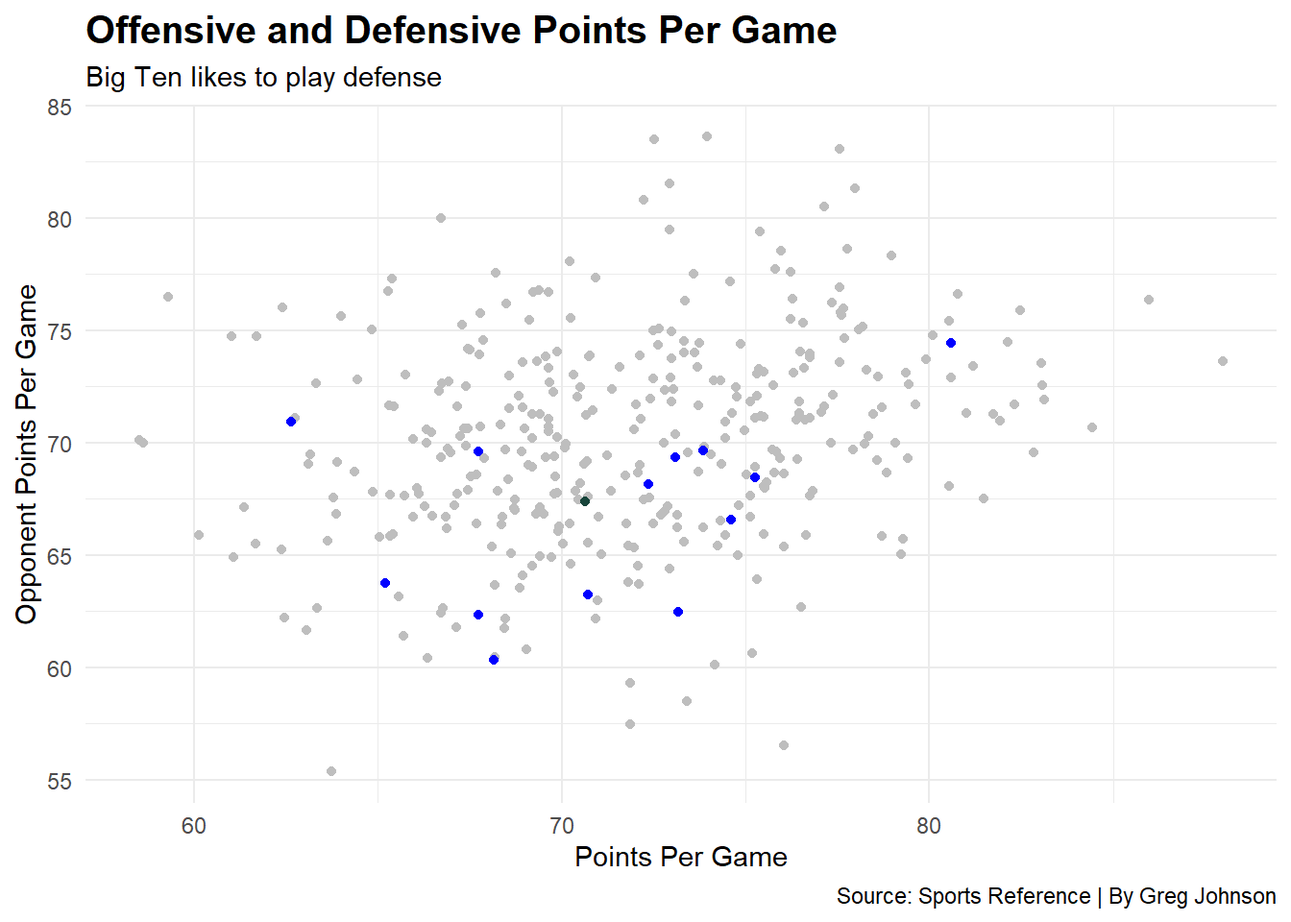
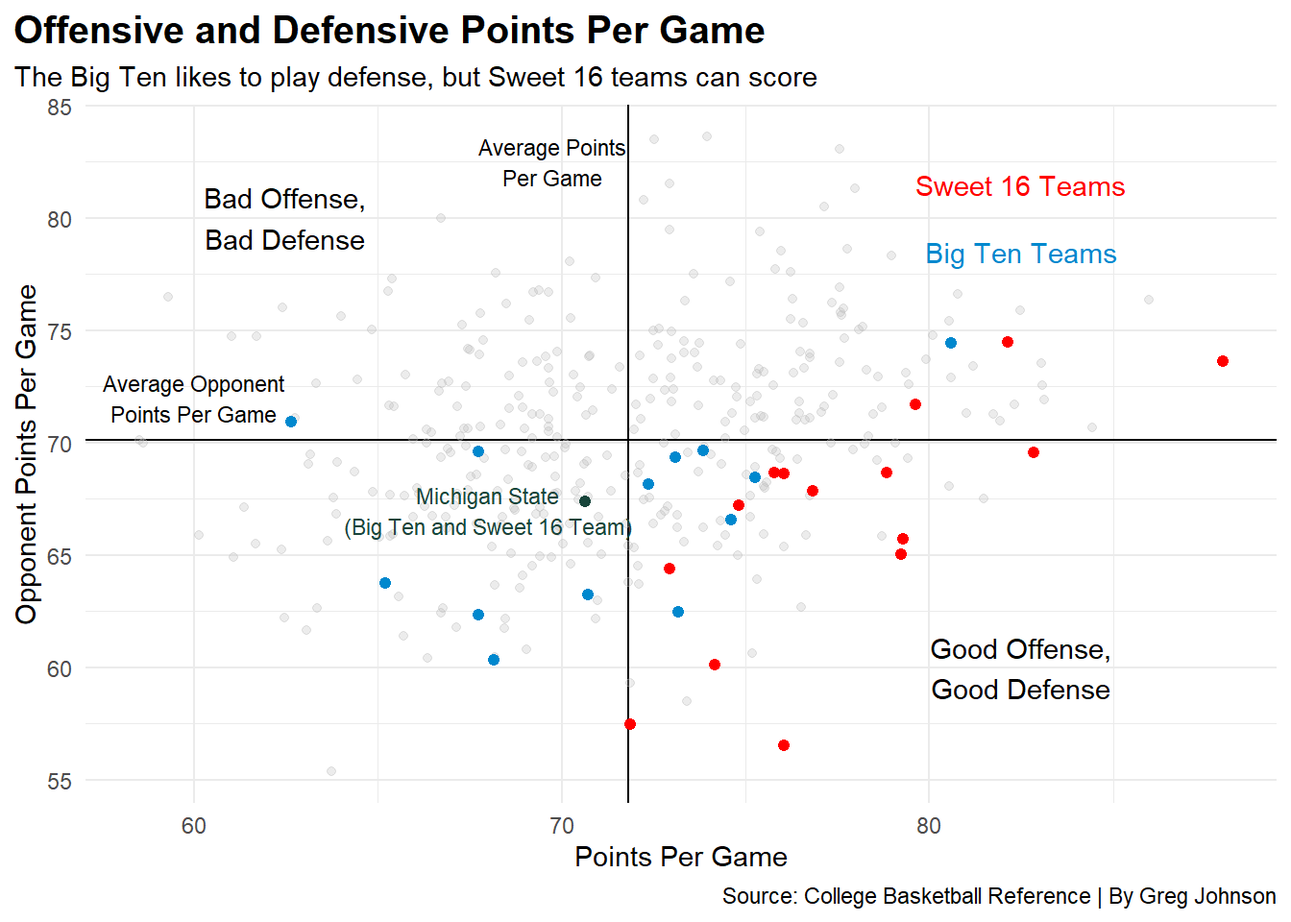
just need text

diff --git a/posts/the-big-ten-sucks-at-march-madness/index.html b/posts/the-big-ten-sucks-at-march-madness/index.html
@@ -6,10 +6,10 @@
 
 <meta name="viewport" content="width=device-width, initial-scale=1.0, user-scalable=yes">
 
-<meta name="author" content="GREG JOHNSON">
+<meta name="author" content="Greg Johnson">
 <meta name="dcterms.date" content="2023-04-16">
 
-<title>Greg Johnson’s Blog - THE BIG TEN SUCKS AT MARCH MADNESS</title>
+<title>Greg Johnson’s Blog - The Big Ten’s Short Lived 2023 March Madness</title>
 <style>
 code{white-space: pre-wrap;}
 span.smallcaps{font-variant: small-caps;}
@@ -173,7 +173,7 @@ code span.wa { color: #60a0b0; font-weight: bold; font-style: italic; } /* Warni
 <header id="title-block-header" class="quarto-title-block default page-columns page-full">
   <div class="quarto-title-banner page-columns page-full">
     <div class="quarto-title column-body">
-      <h1 class="title">THE BIG TEN SUCKS AT MARCH MADNESS</h1>
+      <h1 class="title">The Big Ten’s Short Lived 2023 March Madness</h1>
                                 <div class="quarto-categories">
                 <div class="quarto-category">ppg</div>
                 <div class="quarto-category">sos</div>
@@ -188,7 +188,7 @@ code span.wa { color: #60a0b0; font-weight: bold; font-style: italic; } /* Warni
       <div>
       <div class="quarto-title-meta-heading">Author</div>
       <div class="quarto-title-meta-contents">
-               <p>GREG JOHNSON </p>
+               <p>Greg Johnson </p>
             </div>
     </div>
       
@@ -258,114 +258,109 @@ code span.wa { color: #60a0b0; font-weight: bold; font-style: italic; } /* Warni
 <span id="cb1-39"><a href="#cb1-39" aria-hidden="true" tabindex="-1"></a></span>
 <span id="cb1-40"><a href="#cb1-40" aria-hidden="true" tabindex="-1"></a>sweetdanceresidual <span class="ot">&lt;-</span> residualmodel <span class="sc">%&gt;%</span> <span class="fu">filter</span>(School <span class="sc">%in%</span> sweettournament)</span>
 <span id="cb1-41"><a href="#cb1-41" aria-hidden="true" tabindex="-1"></a></span>
-<span id="cb1-42"><a href="#cb1-42" aria-hidden="true" tabindex="-1"></a>miresidual <span class="ot">&lt;-</span> residualmodel <span class="sc">%&gt;%</span> <span class="fu">filter</span>(School <span class="sc">==</span> <span class="st">"Michigan State"</span>)</span></code><button title="Copy to Clipboard" class="code-copy-button"><i class="bi"></i></button></pre></div>
-</details>
-</div>
-<p>Some intro text</p>
-<div class="cell">
-<details>
-<summary>Code</summary>
-<div class="sourceCode cell-code" id="cb2"><pre class="sourceCode r code-with-copy"><code class="sourceCode r"><span id="cb2-1"><a href="#cb2-1" aria-hidden="true" tabindex="-1"></a><span class="fu">ggplot</span>() <span class="sc">+</span></span>
-<span id="cb2-2"><a href="#cb2-2" aria-hidden="true" tabindex="-1"></a>  <span class="fu">geom_hline</span>(<span class="at">yintercept=</span><span class="fl">70.11547</span>, <span class="at">color=</span><span class="st">"black"</span>) <span class="sc">+</span> </span>
-<span id="cb2-3"><a href="#cb2-3" aria-hidden="true" tabindex="-1"></a>  <span class="fu">geom_vline</span>(<span class="at">xintercept=</span><span class="fl">71.81432</span>, <span class="at">color=</span><span class="st">"black"</span>) <span class="sc">+</span>   </span>
-<span id="cb2-4"><a href="#cb2-4" aria-hidden="true" tabindex="-1"></a>  <span class="fu">geom_point</span>(<span class="at">data=</span>stats, <span class="fu">aes</span>(<span class="at">x=</span>ForPoints<span class="sc">/</span>Games, <span class="at">y=</span>OppPoints<span class="sc">/</span>Games), <span class="at">size=</span><span class="fl">1.5</span>, <span class="at">color=</span><span class="st">"grey"</span>, <span class="at">alpha=</span>.<span class="dv">3</span>) <span class="sc">+</span></span>
-<span id="cb2-5"><a href="#cb2-5" aria-hidden="true" tabindex="-1"></a>  <span class="fu">geom_point</span>(<span class="at">data=</span>big, <span class="fu">aes</span>(<span class="at">x=</span>ForPoints<span class="sc">/</span>Games, <span class="at">y=</span>OppPoints<span class="sc">/</span>Games), <span class="at">size=</span><span class="fl">1.75</span>, <span class="at">color=</span><span class="st">"#0088ce"</span>) <span class="sc">+</span></span>
-<span id="cb2-6"><a href="#cb2-6" aria-hidden="true" tabindex="-1"></a>  <span class="fu">geom_point</span>(<span class="at">data=</span>sweetdance, <span class="fu">aes</span>(<span class="at">x=</span>ForPoints<span class="sc">/</span>Games, <span class="at">y=</span>OppPoints<span class="sc">/</span>Games), <span class="at">size=</span><span class="fl">1.75</span>, <span class="at">color=</span><span class="st">"red"</span>) <span class="sc">+</span></span>
-<span id="cb2-7"><a href="#cb2-7" aria-hidden="true" tabindex="-1"></a>  <span class="fu">geom_point</span>(<span class="at">data=</span>mi, <span class="fu">aes</span>(<span class="at">x=</span>ForPoints<span class="sc">/</span>Games, <span class="at">y=</span>OppPoints<span class="sc">/</span>Games), <span class="at">size=</span><span class="fl">1.75</span>, <span class="at">color=</span><span class="st">"#18453B"</span>) <span class="sc">+</span> </span>
-<span id="cb2-8"><a href="#cb2-8" aria-hidden="true" tabindex="-1"></a></span>
-<span id="cb2-9"><a href="#cb2-9" aria-hidden="true" tabindex="-1"></a>  <span class="fu">labs</span>(</span>
-<span id="cb2-10"><a href="#cb2-10" aria-hidden="true" tabindex="-1"></a>    <span class="at">title=</span><span class="st">"Offensive and Defensive Points Per Game"</span>,</span>
-<span id="cb2-11"><a href="#cb2-11" aria-hidden="true" tabindex="-1"></a>    <span class="at">subtitle=</span><span class="st">"The Big Ten likes to play defense, but Sweet 16 teams can score"</span>,</span>
-<span id="cb2-12"><a href="#cb2-12" aria-hidden="true" tabindex="-1"></a>    <span class="at">x=</span><span class="st">"Points Per Game"</span>, </span>
-<span id="cb2-13"><a href="#cb2-13" aria-hidden="true" tabindex="-1"></a>    <span class="at">y=</span><span class="st">"Opponent Points Per Game"</span>,</span>
-<span id="cb2-14"><a href="#cb2-14" aria-hidden="true" tabindex="-1"></a>    <span class="at">caption=</span><span class="st">"Source: College Basketball Reference | By Greg Johnson"</span>)<span class="sc">+</span></span>
-<span id="cb2-15"><a href="#cb2-15" aria-hidden="true" tabindex="-1"></a>   <span class="fu">geom_text</span>(<span class="fu">aes</span>(<span class="at">x=</span><span class="fl">82.5</span>, <span class="at">y=</span><span class="fl">81.5</span>, <span class="at">label=</span><span class="st">"Sweet 16 Teams"</span>), <span class="at">color=</span><span class="st">"red"</span>) <span class="sc">+</span></span>
-<span id="cb2-16"><a href="#cb2-16" aria-hidden="true" tabindex="-1"></a>  <span class="fu">geom_text</span>(<span class="fu">aes</span>(<span class="at">x=</span><span class="fl">82.5</span>, <span class="at">y=</span><span class="fl">78.5</span>, <span class="at">label=</span><span class="st">"Big Ten Teams"</span>), <span class="at">color=</span><span class="st">"#0088ce"</span>) <span class="sc">+</span></span>
-<span id="cb2-17"><a href="#cb2-17" aria-hidden="true" tabindex="-1"></a>  <span class="fu">geom_text</span>(<span class="fu">aes</span>(<span class="at">x=</span><span class="dv">68</span>, <span class="at">y=</span><span class="dv">67</span>, <span class="at">label=</span><span class="st">"Michigan State</span><span class="sc">\n</span><span class="st">(Big Ten and Sweet 16 Team)"</span>), <span class="at">size=</span><span class="dv">3</span>, <span class="at">color=</span><span class="st">"#18453B"</span>) <span class="sc">+</span></span>
-<span id="cb2-18"><a href="#cb2-18" aria-hidden="true" tabindex="-1"></a>  <span class="fu">geom_text</span>(<span class="fu">aes</span>(<span class="at">x=</span><span class="fl">82.5</span>, <span class="at">y=</span><span class="dv">60</span>, <span class="at">label=</span><span class="st">"Good Offense,</span><span class="sc">\n</span><span class="st">Good Defense"</span>), <span class="at">color=</span><span class="st">"black"</span>) <span class="sc">+</span></span>
-<span id="cb2-19"><a href="#cb2-19" aria-hidden="true" tabindex="-1"></a>  <span class="fu">geom_text</span>(<span class="fu">aes</span>(<span class="at">x=</span><span class="fl">62.5</span>, <span class="at">y=</span><span class="dv">80</span>, <span class="at">label=</span><span class="st">"Bad Offense,</span><span class="sc">\n</span><span class="st">Bad Defense"</span>), <span class="at">color=</span><span class="st">"black"</span>) <span class="sc">+</span></span>
-<span id="cb2-20"><a href="#cb2-20" aria-hidden="true" tabindex="-1"></a>  <span class="fu">geom_text</span>(<span class="fu">aes</span>(<span class="at">x=</span><span class="fl">69.75</span>, <span class="at">y=</span><span class="fl">82.5</span>, <span class="at">label=</span><span class="st">"Average Points</span><span class="sc">\n</span><span class="st">Per Game"</span>), <span class="at">size=</span><span class="dv">3</span>, <span class="at">color=</span><span class="st">"black"</span>) <span class="sc">+</span></span>
-<span id="cb2-21"><a href="#cb2-21" aria-hidden="true" tabindex="-1"></a>  <span class="fu">geom_text</span>(<span class="fu">aes</span>(<span class="at">x=</span><span class="dv">60</span>, <span class="at">y=</span><span class="dv">72</span>, <span class="at">label=</span><span class="st">"Average Opponent</span><span class="sc">\n</span><span class="st">Points Per Game"</span>), <span class="at">size=</span><span class="dv">3</span>, <span class="at">color=</span><span class="st">"black"</span>) <span class="sc">+</span></span>
-<span id="cb2-22"><a href="#cb2-22" aria-hidden="true" tabindex="-1"></a>  </span>
-<span id="cb2-23"><a href="#cb2-23" aria-hidden="true" tabindex="-1"></a>  <span class="fu">theme_minimal</span>() <span class="sc">+</span></span>
-<span id="cb2-24"><a href="#cb2-24" aria-hidden="true" tabindex="-1"></a>  <span class="fu">theme</span>(</span>
-<span id="cb2-25"><a href="#cb2-25" aria-hidden="true" tabindex="-1"></a>    <span class="at">plot.title =</span> <span class="fu">element_text</span>(<span class="at">size =</span> <span class="dv">15</span>, <span class="at">face =</span> <span class="st">"bold"</span>),</span>
-<span id="cb2-26"><a href="#cb2-26" aria-hidden="true" tabindex="-1"></a>    <span class="at">plot.title.position=</span><span class="st">"plot"</span></span>
-<span id="cb2-27"><a href="#cb2-27" aria-hidden="true" tabindex="-1"></a>    )</span></code><button title="Copy to Clipboard" class="code-copy-button"><i class="bi"></i></button></pre></div>
+<span id="cb1-42"><a href="#cb1-42" aria-hidden="true" tabindex="-1"></a>miresidual <span class="ot">&lt;-</span> residualmodel <span class="sc">%&gt;%</span> <span class="fu">filter</span>(School <span class="sc">==</span> <span class="st">"Michigan State"</span>)</span>
+<span id="cb1-43"><a href="#cb1-43" aria-hidden="true" tabindex="-1"></a></span>
+<span id="cb1-44"><a href="#cb1-44" aria-hidden="true" tabindex="-1"></a><span class="fu">ggplot</span>() <span class="sc">+</span></span>
+<span id="cb1-45"><a href="#cb1-45" aria-hidden="true" tabindex="-1"></a>  <span class="fu">geom_hline</span>(<span class="at">yintercept=</span><span class="fl">70.11547</span>, <span class="at">color=</span><span class="st">"black"</span>) <span class="sc">+</span> </span>
+<span id="cb1-46"><a href="#cb1-46" aria-hidden="true" tabindex="-1"></a>  <span class="fu">geom_vline</span>(<span class="at">xintercept=</span><span class="fl">71.81432</span>, <span class="at">color=</span><span class="st">"black"</span>) <span class="sc">+</span>   </span>
+<span id="cb1-47"><a href="#cb1-47" aria-hidden="true" tabindex="-1"></a>  <span class="fu">geom_point</span>(<span class="at">data=</span>stats, <span class="fu">aes</span>(<span class="at">x=</span>ForPoints<span class="sc">/</span>Games, <span class="at">y=</span>OppPoints<span class="sc">/</span>Games), <span class="at">size=</span><span class="fl">1.5</span>, <span class="at">color=</span><span class="st">"grey"</span>, <span class="at">alpha=</span>.<span class="dv">3</span>) <span class="sc">+</span></span>
+<span id="cb1-48"><a href="#cb1-48" aria-hidden="true" tabindex="-1"></a>  <span class="fu">geom_point</span>(<span class="at">data=</span>big, <span class="fu">aes</span>(<span class="at">x=</span>ForPoints<span class="sc">/</span>Games, <span class="at">y=</span>OppPoints<span class="sc">/</span>Games), <span class="at">size=</span><span class="fl">1.75</span>, <span class="at">color=</span><span class="st">"#0088ce"</span>) <span class="sc">+</span></span>
+<span id="cb1-49"><a href="#cb1-49" aria-hidden="true" tabindex="-1"></a>  <span class="fu">geom_point</span>(<span class="at">data=</span>sweetdance, <span class="fu">aes</span>(<span class="at">x=</span>ForPoints<span class="sc">/</span>Games, <span class="at">y=</span>OppPoints<span class="sc">/</span>Games), <span class="at">size=</span><span class="fl">1.75</span>, <span class="at">color=</span><span class="st">"red"</span>) <span class="sc">+</span></span>
+<span id="cb1-50"><a href="#cb1-50" aria-hidden="true" tabindex="-1"></a>  <span class="fu">geom_point</span>(<span class="at">data=</span>mi, <span class="fu">aes</span>(<span class="at">x=</span>ForPoints<span class="sc">/</span>Games, <span class="at">y=</span>OppPoints<span class="sc">/</span>Games), <span class="at">size=</span><span class="fl">1.75</span>, <span class="at">color=</span><span class="st">"#18453B"</span>) <span class="sc">+</span> </span>
+<span id="cb1-51"><a href="#cb1-51" aria-hidden="true" tabindex="-1"></a></span>
+<span id="cb1-52"><a href="#cb1-52" aria-hidden="true" tabindex="-1"></a>  <span class="fu">labs</span>(</span>
+<span id="cb1-53"><a href="#cb1-53" aria-hidden="true" tabindex="-1"></a>    <span class="at">title=</span><span class="st">"Offensive and Defensive Points Per Game"</span>,</span>
+<span id="cb1-54"><a href="#cb1-54" aria-hidden="true" tabindex="-1"></a>    <span class="at">subtitle=</span><span class="st">"The Big Ten likes to play defense, but Sweet 16 teams can score"</span>,</span>
+<span id="cb1-55"><a href="#cb1-55" aria-hidden="true" tabindex="-1"></a>    <span class="at">x=</span><span class="st">"Points Per Game"</span>, </span>
+<span id="cb1-56"><a href="#cb1-56" aria-hidden="true" tabindex="-1"></a>    <span class="at">y=</span><span class="st">"Opponent Points Per Game"</span>,</span>
+<span id="cb1-57"><a href="#cb1-57" aria-hidden="true" tabindex="-1"></a>    <span class="at">caption=</span><span class="st">"Source: College Basketball Reference | By Greg Johnson"</span>)<span class="sc">+</span></span>
+<span id="cb1-58"><a href="#cb1-58" aria-hidden="true" tabindex="-1"></a>   <span class="fu">geom_text</span>(<span class="fu">aes</span>(<span class="at">x=</span><span class="fl">82.5</span>, <span class="at">y=</span><span class="fl">81.5</span>, <span class="at">label=</span><span class="st">"Sweet 16 Teams"</span>), <span class="at">color=</span><span class="st">"red"</span>) <span class="sc">+</span></span>
+<span id="cb1-59"><a href="#cb1-59" aria-hidden="true" tabindex="-1"></a>  <span class="fu">geom_text</span>(<span class="fu">aes</span>(<span class="at">x=</span><span class="fl">82.5</span>, <span class="at">y=</span><span class="fl">78.5</span>, <span class="at">label=</span><span class="st">"Big Ten Teams"</span>), <span class="at">color=</span><span class="st">"#0088ce"</span>) <span class="sc">+</span></span>
+<span id="cb1-60"><a href="#cb1-60" aria-hidden="true" tabindex="-1"></a>  <span class="fu">geom_text</span>(<span class="fu">aes</span>(<span class="at">x=</span><span class="dv">68</span>, <span class="at">y=</span><span class="dv">67</span>, <span class="at">label=</span><span class="st">"Michigan State</span><span class="sc">\n</span><span class="st">(Big Ten and Sweet 16 Team)"</span>), <span class="at">size=</span><span class="dv">3</span>, <span class="at">color=</span><span class="st">"#18453B"</span>) <span class="sc">+</span></span>
+<span id="cb1-61"><a href="#cb1-61" aria-hidden="true" tabindex="-1"></a>  <span class="fu">geom_text</span>(<span class="fu">aes</span>(<span class="at">x=</span><span class="fl">82.5</span>, <span class="at">y=</span><span class="dv">60</span>, <span class="at">label=</span><span class="st">"Good Offense,</span><span class="sc">\n</span><span class="st">Good Defense"</span>), <span class="at">color=</span><span class="st">"black"</span>) <span class="sc">+</span></span>
+<span id="cb1-62"><a href="#cb1-62" aria-hidden="true" tabindex="-1"></a>  <span class="fu">geom_text</span>(<span class="fu">aes</span>(<span class="at">x=</span><span class="fl">62.5</span>, <span class="at">y=</span><span class="dv">80</span>, <span class="at">label=</span><span class="st">"Bad Offense,</span><span class="sc">\n</span><span class="st">Bad Defense"</span>), <span class="at">color=</span><span class="st">"black"</span>) <span class="sc">+</span></span>
+<span id="cb1-63"><a href="#cb1-63" aria-hidden="true" tabindex="-1"></a>  <span class="fu">geom_text</span>(<span class="fu">aes</span>(<span class="at">x=</span><span class="fl">69.75</span>, <span class="at">y=</span><span class="fl">82.5</span>, <span class="at">label=</span><span class="st">"Average Points</span><span class="sc">\n</span><span class="st">Per Game"</span>), <span class="at">size=</span><span class="dv">3</span>, <span class="at">color=</span><span class="st">"black"</span>) <span class="sc">+</span></span>
+<span id="cb1-64"><a href="#cb1-64" aria-hidden="true" tabindex="-1"></a>  <span class="fu">geom_text</span>(<span class="fu">aes</span>(<span class="at">x=</span><span class="dv">60</span>, <span class="at">y=</span><span class="dv">72</span>, <span class="at">label=</span><span class="st">"Average Opponent</span><span class="sc">\n</span><span class="st">Points Per Game"</span>), <span class="at">size=</span><span class="dv">3</span>, <span class="at">color=</span><span class="st">"black"</span>) <span class="sc">+</span></span>
+<span id="cb1-65"><a href="#cb1-65" aria-hidden="true" tabindex="-1"></a>  </span>
+<span id="cb1-66"><a href="#cb1-66" aria-hidden="true" tabindex="-1"></a>  <span class="fu">theme_minimal</span>() <span class="sc">+</span></span>
+<span id="cb1-67"><a href="#cb1-67" aria-hidden="true" tabindex="-1"></a>  <span class="fu">theme</span>(</span>
+<span id="cb1-68"><a href="#cb1-68" aria-hidden="true" tabindex="-1"></a>    <span class="at">plot.title =</span> <span class="fu">element_text</span>(<span class="at">size =</span> <span class="dv">15</span>, <span class="at">face =</span> <span class="st">"bold"</span>),</span>
+<span id="cb1-69"><a href="#cb1-69" aria-hidden="true" tabindex="-1"></a>    <span class="at">plot.title.position=</span><span class="st">"plot"</span></span>
+<span id="cb1-70"><a href="#cb1-70" aria-hidden="true" tabindex="-1"></a>    )</span></code><button title="Copy to Clipboard" class="code-copy-button"><i class="bi"></i></button></pre></div>
 </details>
 <div class="cell-output-display">
-<p><img src="index_files/figure-html/unnamed-chunk-2-1.png" class="img-fluid" width="672"></p>
+<p><img src="index_files/figure-html/unnamed-chunk-1-1.png" class="img-fluid" width="672"></p>
 </div>
 </div>
 <p>That was chart 1, here is chart 2</p>
 <div class="cell">
 <details>
 <summary>Code</summary>
-<div class="sourceCode cell-code" id="cb3"><pre class="sourceCode r code-with-copy"><code class="sourceCode r"><span id="cb3-1"><a href="#cb3-1" aria-hidden="true" tabindex="-1"></a><span class="fu">ggplot</span>() <span class="sc">+</span> </span>
-<span id="cb3-2"><a href="#cb3-2" aria-hidden="true" tabindex="-1"></a>  <span class="fu">geom_bar</span>(</span>
-<span id="cb3-3"><a href="#cb3-3" aria-hidden="true" tabindex="-1"></a>    <span class="at">data=</span>big, </span>
-<span id="cb3-4"><a href="#cb3-4" aria-hidden="true" tabindex="-1"></a>    <span class="fu">aes</span>(</span>
-<span id="cb3-5"><a href="#cb3-5" aria-hidden="true" tabindex="-1"></a>      <span class="at">x=</span><span class="fu">reorder</span>(School, OverallSOS), </span>
-<span id="cb3-6"><a href="#cb3-6" aria-hidden="true" tabindex="-1"></a>      <span class="at">weight=</span>OverallSOS), </span>
-<span id="cb3-7"><a href="#cb3-7" aria-hidden="true" tabindex="-1"></a>      <span class="at">fill=</span><span class="st">"grey"</span></span>
-<span id="cb3-8"><a href="#cb3-8" aria-hidden="true" tabindex="-1"></a>    ) <span class="sc">+</span> </span>
-<span id="cb3-9"><a href="#cb3-9" aria-hidden="true" tabindex="-1"></a>  <span class="fu">geom_bar</span>(</span>
-<span id="cb3-10"><a href="#cb3-10" aria-hidden="true" tabindex="-1"></a>    <span class="at">data=</span>bigdance, </span>
-<span id="cb3-11"><a href="#cb3-11" aria-hidden="true" tabindex="-1"></a>    <span class="fu">aes</span>(</span>
-<span id="cb3-12"><a href="#cb3-12" aria-hidden="true" tabindex="-1"></a>      <span class="at">x=</span><span class="fu">reorder</span>(School, OverallSOS), </span>
-<span id="cb3-13"><a href="#cb3-13" aria-hidden="true" tabindex="-1"></a>      <span class="at">weight=</span>OverallSOS), <span class="at">fill=</span><span class="st">"#0088ce"</span></span>
-<span id="cb3-14"><a href="#cb3-14" aria-hidden="true" tabindex="-1"></a>      </span>
-<span id="cb3-15"><a href="#cb3-15" aria-hidden="true" tabindex="-1"></a>    ) <span class="sc">+</span></span>
-<span id="cb3-16"><a href="#cb3-16" aria-hidden="true" tabindex="-1"></a>  <span class="fu">coord_flip</span>() <span class="sc">+</span></span>
-<span id="cb3-17"><a href="#cb3-17" aria-hidden="true" tabindex="-1"></a> <span class="fu">labs</span>(</span>
-<span id="cb3-18"><a href="#cb3-18" aria-hidden="true" tabindex="-1"></a>    <span class="at">title=</span><span class="st">"Big Ten Strength of Schedule"</span>,</span>
-<span id="cb3-19"><a href="#cb3-19" aria-hidden="true" tabindex="-1"></a>    <span class="at">subtitle=</span><span class="st">"Sparty is not afraid of a fight"</span>,</span>
-<span id="cb3-20"><a href="#cb3-20" aria-hidden="true" tabindex="-1"></a>    <span class="at">x=</span><span class="st">""</span>, </span>
-<span id="cb3-21"><a href="#cb3-21" aria-hidden="true" tabindex="-1"></a>    <span class="at">y=</span><span class="st">"Strength of Schedule"</span>,</span>
-<span id="cb3-22"><a href="#cb3-22" aria-hidden="true" tabindex="-1"></a>    <span class="at">caption=</span><span class="st">"Source: College Basketball Reference | By Greg Johnson"</span>)<span class="sc">+</span></span>
-<span id="cb3-23"><a href="#cb3-23" aria-hidden="true" tabindex="-1"></a>  <span class="fu">geom_text</span>(<span class="fu">aes</span>(<span class="at">x=</span><span class="st">"Purdue"</span>, <span class="at">y=</span><span class="fl">9.75</span>, <span class="at">label=</span><span class="st">"Tournament</span><span class="sc">\n</span><span class="st">Teams"</span>), <span class="at">size=</span><span class="fl">3.6</span>, <span class="at">color=</span><span class="st">"#0088ce"</span>) <span class="sc">+</span></span>
-<span id="cb3-24"><a href="#cb3-24" aria-hidden="true" tabindex="-1"></a>  <span class="fu">theme_minimal</span>() <span class="sc">+</span></span>
-<span id="cb3-25"><a href="#cb3-25" aria-hidden="true" tabindex="-1"></a>  <span class="fu">theme</span>(</span>
-<span id="cb3-26"><a href="#cb3-26" aria-hidden="true" tabindex="-1"></a>    <span class="at">plot.title =</span> <span class="fu">element_text</span>(<span class="at">size =</span> <span class="dv">15</span>, <span class="at">face =</span> <span class="st">"bold"</span>),</span>
-<span id="cb3-27"><a href="#cb3-27" aria-hidden="true" tabindex="-1"></a>    <span class="at">plot.title.position=</span><span class="st">"plot"</span></span>
-<span id="cb3-28"><a href="#cb3-28" aria-hidden="true" tabindex="-1"></a>    )</span></code><button title="Copy to Clipboard" class="code-copy-button"><i class="bi"></i></button></pre></div>
+<div class="sourceCode cell-code" id="cb2"><pre class="sourceCode r code-with-copy"><code class="sourceCode r"><span id="cb2-1"><a href="#cb2-1" aria-hidden="true" tabindex="-1"></a><span class="fu">ggplot</span>() <span class="sc">+</span> </span>
+<span id="cb2-2"><a href="#cb2-2" aria-hidden="true" tabindex="-1"></a>  <span class="fu">geom_bar</span>(</span>
+<span id="cb2-3"><a href="#cb2-3" aria-hidden="true" tabindex="-1"></a>    <span class="at">data=</span>big, </span>
+<span id="cb2-4"><a href="#cb2-4" aria-hidden="true" tabindex="-1"></a>    <span class="fu">aes</span>(</span>
+<span id="cb2-5"><a href="#cb2-5" aria-hidden="true" tabindex="-1"></a>      <span class="at">x=</span><span class="fu">reorder</span>(School, OverallSOS), </span>
+<span id="cb2-6"><a href="#cb2-6" aria-hidden="true" tabindex="-1"></a>      <span class="at">weight=</span>OverallSOS), </span>
+<span id="cb2-7"><a href="#cb2-7" aria-hidden="true" tabindex="-1"></a>      <span class="at">fill=</span><span class="st">"grey"</span></span>
+<span id="cb2-8"><a href="#cb2-8" aria-hidden="true" tabindex="-1"></a>    ) <span class="sc">+</span> </span>
+<span id="cb2-9"><a href="#cb2-9" aria-hidden="true" tabindex="-1"></a>  <span class="fu">geom_bar</span>(</span>
+<span id="cb2-10"><a href="#cb2-10" aria-hidden="true" tabindex="-1"></a>    <span class="at">data=</span>bigdance, </span>
+<span id="cb2-11"><a href="#cb2-11" aria-hidden="true" tabindex="-1"></a>    <span class="fu">aes</span>(</span>
+<span id="cb2-12"><a href="#cb2-12" aria-hidden="true" tabindex="-1"></a>      <span class="at">x=</span><span class="fu">reorder</span>(School, OverallSOS), </span>
+<span id="cb2-13"><a href="#cb2-13" aria-hidden="true" tabindex="-1"></a>      <span class="at">weight=</span>OverallSOS), <span class="at">fill=</span><span class="st">"#0088ce"</span></span>
+<span id="cb2-14"><a href="#cb2-14" aria-hidden="true" tabindex="-1"></a>      </span>
+<span id="cb2-15"><a href="#cb2-15" aria-hidden="true" tabindex="-1"></a>    ) <span class="sc">+</span></span>
+<span id="cb2-16"><a href="#cb2-16" aria-hidden="true" tabindex="-1"></a>  <span class="fu">coord_flip</span>() <span class="sc">+</span></span>
+<span id="cb2-17"><a href="#cb2-17" aria-hidden="true" tabindex="-1"></a> <span class="fu">labs</span>(</span>
+<span id="cb2-18"><a href="#cb2-18" aria-hidden="true" tabindex="-1"></a>    <span class="at">title=</span><span class="st">"Big Ten Strength of Schedule"</span>,</span>
+<span id="cb2-19"><a href="#cb2-19" aria-hidden="true" tabindex="-1"></a>    <span class="at">subtitle=</span><span class="st">"Sparty is not afraid of a fight"</span>,</span>
+<span id="cb2-20"><a href="#cb2-20" aria-hidden="true" tabindex="-1"></a>    <span class="at">x=</span><span class="st">""</span>, </span>
+<span id="cb2-21"><a href="#cb2-21" aria-hidden="true" tabindex="-1"></a>    <span class="at">y=</span><span class="st">"Strength of Schedule"</span>,</span>
+<span id="cb2-22"><a href="#cb2-22" aria-hidden="true" tabindex="-1"></a>    <span class="at">caption=</span><span class="st">"Source: College Basketball Reference | By Greg Johnson"</span>)<span class="sc">+</span></span>
+<span id="cb2-23"><a href="#cb2-23" aria-hidden="true" tabindex="-1"></a>  <span class="fu">geom_text</span>(<span class="fu">aes</span>(<span class="at">x=</span><span class="st">"Purdue"</span>, <span class="at">y=</span><span class="fl">9.75</span>, <span class="at">label=</span><span class="st">"Tournament</span><span class="sc">\n</span><span class="st">Teams"</span>), <span class="at">size=</span><span class="fl">3.6</span>, <span class="at">color=</span><span class="st">"#0088ce"</span>) <span class="sc">+</span></span>
+<span id="cb2-24"><a href="#cb2-24" aria-hidden="true" tabindex="-1"></a>  <span class="fu">theme_minimal</span>() <span class="sc">+</span></span>
+<span id="cb2-25"><a href="#cb2-25" aria-hidden="true" tabindex="-1"></a>  <span class="fu">theme</span>(</span>
+<span id="cb2-26"><a href="#cb2-26" aria-hidden="true" tabindex="-1"></a>    <span class="at">plot.title =</span> <span class="fu">element_text</span>(<span class="at">size =</span> <span class="dv">15</span>, <span class="at">face =</span> <span class="st">"bold"</span>),</span>
+<span id="cb2-27"><a href="#cb2-27" aria-hidden="true" tabindex="-1"></a>    <span class="at">plot.title.position=</span><span class="st">"plot"</span></span>
+<span id="cb2-28"><a href="#cb2-28" aria-hidden="true" tabindex="-1"></a>    )</span></code><button title="Copy to Clipboard" class="code-copy-button"><i class="bi"></i></button></pre></div>
 </details>
 <div class="cell-output-display">
-<p><img src="index_files/figure-html/unnamed-chunk-3-1.png" class="img-fluid" width="672"></p>
+<p><img src="index_files/figure-html/unnamed-chunk-2-1.png" class="img-fluid" width="672"></p>
 </div>
 </div>
 <p>Another Chart coming up</p>
 <div class="cell">
 <details>
 <summary>Code</summary>
-<div class="sourceCode cell-code" id="cb4"><pre class="sourceCode r code-with-copy"><code class="sourceCode r"><span id="cb4-1"><a href="#cb4-1" aria-hidden="true" tabindex="-1"></a><span class="fu">ggplot</span>() <span class="sc">+</span> </span>
-<span id="cb4-2"><a href="#cb4-2" aria-hidden="true" tabindex="-1"></a>  <span class="fu">geom_point</span>(<span class="at">data=</span>residualmodel, <span class="fu">aes</span>(<span class="at">x=</span>averagedifferential, <span class="at">y=</span>WinPct)) <span class="sc">+</span></span>
-<span id="cb4-3"><a href="#cb4-3" aria-hidden="true" tabindex="-1"></a>  <span class="fu">geom_smooth</span>(<span class="at">data=</span>residualmodel, <span class="fu">aes</span>(<span class="at">x=</span>averagedifferential, <span class="at">y=</span>WinPct), <span class="at">method=</span><span class="st">"lm"</span>) <span class="sc">+</span></span>
-<span id="cb4-4"><a href="#cb4-4" aria-hidden="true" tabindex="-1"></a>  <span class="fu">geom_point</span>(<span class="at">data=</span>danceresidual, <span class="fu">aes</span>(<span class="at">x=</span>averagedifferential, <span class="at">y=</span>WinPct), <span class="at">color=</span><span class="st">"grey"</span>) <span class="sc">+</span></span>
-<span id="cb4-5"><a href="#cb4-5" aria-hidden="true" tabindex="-1"></a>  <span class="fu">geom_point</span>(<span class="at">data=</span>bigdanceresidual, <span class="fu">aes</span>(<span class="at">x=</span>averagedifferential, <span class="at">y=</span>WinPct), <span class="at">color=</span><span class="st">"#0088ce"</span>) <span class="sc">+</span></span>
-<span id="cb4-6"><a href="#cb4-6" aria-hidden="true" tabindex="-1"></a>  <span class="fu">geom_point</span>(<span class="at">data=</span>sweetdanceresidual, <span class="fu">aes</span>(<span class="at">x=</span>averagedifferential, <span class="at">y=</span>WinPct), <span class="at">color=</span><span class="st">"red"</span>) <span class="sc">+</span></span>
-<span id="cb4-7"><a href="#cb4-7" aria-hidden="true" tabindex="-1"></a>  <span class="fu">geom_point</span>(<span class="at">data=</span>miresidual, <span class="fu">aes</span>(<span class="at">x=</span>averagedifferential, <span class="at">y=</span>WinPct), <span class="at">color=</span><span class="st">"#18453B"</span>) <span class="sc">+</span></span>
-<span id="cb4-8"><a href="#cb4-8" aria-hidden="true" tabindex="-1"></a>  </span>
-<span id="cb4-9"><a href="#cb4-9" aria-hidden="true" tabindex="-1"></a>  <span class="fu">labs</span>(</span>
-<span id="cb4-10"><a href="#cb4-10" aria-hidden="true" tabindex="-1"></a>    <span class="at">title=</span><span class="st">"Point Differential and Win Percentage of Tournament Teams"</span>,</span>
-<span id="cb4-11"><a href="#cb4-11" aria-hidden="true" tabindex="-1"></a>    <span class="at">subtitle=</span><span class="st">"Big Ten teams like to keep it close, but Sweet 16 teams can run away with the game"</span>,</span>
-<span id="cb4-12"><a href="#cb4-12" aria-hidden="true" tabindex="-1"></a>    <span class="at">x=</span><span class="st">"Average Point Differential"</span>, </span>
-<span id="cb4-13"><a href="#cb4-13" aria-hidden="true" tabindex="-1"></a>    <span class="at">y=</span><span class="st">"Win Percentage"</span>,</span>
-<span id="cb4-14"><a href="#cb4-14" aria-hidden="true" tabindex="-1"></a>    <span class="at">caption=</span><span class="st">"Source: College Basketball Reference | By Greg Johnson"</span>) <span class="sc">+</span></span>
-<span id="cb4-15"><a href="#cb4-15" aria-hidden="true" tabindex="-1"></a>  <span class="fu">geom_text</span>(<span class="fu">aes</span>(<span class="at">x=</span><span class="dv">5</span>, <span class="at">y=</span>.<span class="dv">925</span>, <span class="at">label=</span><span class="st">"Sweet 16 Teams"</span>), <span class="at">color=</span><span class="st">"red"</span>) <span class="sc">+</span></span>
-<span id="cb4-16"><a href="#cb4-16" aria-hidden="true" tabindex="-1"></a>  <span class="fu">geom_text</span>(<span class="fu">aes</span>(<span class="at">x=</span><span class="dv">5</span>, <span class="at">y=</span>.<span class="dv">875</span>, <span class="at">label=</span><span class="st">"Big Ten Teams"</span>), <span class="at">color=</span><span class="st">"#0088ce"</span>) <span class="sc">+</span></span>
-<span id="cb4-17"><a href="#cb4-17" aria-hidden="true" tabindex="-1"></a>  <span class="fu">geom_text</span>(<span class="fu">aes</span>(<span class="at">x=</span><span class="fl">2.5</span>, <span class="at">y=</span>.<span class="dv">675</span>, <span class="at">label=</span><span class="st">"Michigan State</span><span class="sc">\n</span><span class="st">(Big Ten and</span><span class="sc">\n</span><span class="st">Sweet 16 Team)"</span>), <span class="at">size=</span><span class="dv">3</span>, <span class="at">color=</span><span class="st">"#18453B"</span>) <span class="sc">+</span></span>
-<span id="cb4-18"><a href="#cb4-18" aria-hidden="true" tabindex="-1"></a>  <span class="fu">geom_text</span>(<span class="fu">aes</span>(<span class="at">x=</span><span class="fl">15.25</span>, <span class="at">y=</span>.<span class="dv">775</span>, <span class="at">label=</span><span class="st">"National Champion</span><span class="sc">\n</span><span class="st">Connecticut"</span>), <span class="at">size=</span><span class="dv">3</span>, <span class="at">color=</span><span class="st">"red"</span>) <span class="sc">+</span></span>
-<span id="cb4-19"><a href="#cb4-19" aria-hidden="true" tabindex="-1"></a>  <span class="fu">geom_text</span>(<span class="fu">aes</span>(<span class="at">x=</span><span class="fl">12.3</span>, <span class="at">y=</span>.<span class="dv">91</span>, <span class="at">label=</span><span class="st">"Nation Semifinalist</span><span class="sc">\n</span><span class="st">Florida Atlantic"</span>), <span class="at">size=</span><span class="dv">3</span>, <span class="at">color=</span><span class="st">"red"</span>) <span class="sc">+</span></span>
-<span id="cb4-20"><a href="#cb4-20" aria-hidden="true" tabindex="-1"></a>  </span>
-<span id="cb4-21"><a href="#cb4-21" aria-hidden="true" tabindex="-1"></a>  <span class="fu">theme_minimal</span>() <span class="sc">+</span></span>
-<span id="cb4-22"><a href="#cb4-22" aria-hidden="true" tabindex="-1"></a>  <span class="fu">theme</span>(</span>
-<span id="cb4-23"><a href="#cb4-23" aria-hidden="true" tabindex="-1"></a>    <span class="at">plot.title =</span> <span class="fu">element_text</span>(<span class="at">size =</span> <span class="dv">15</span>, <span class="at">face =</span> <span class="st">"bold"</span>),</span>
-<span id="cb4-24"><a href="#cb4-24" aria-hidden="true" tabindex="-1"></a>    <span class="at">plot.title.position=</span><span class="st">"plot"</span></span>
-<span id="cb4-25"><a href="#cb4-25" aria-hidden="true" tabindex="-1"></a>    )</span></code><button title="Copy to Clipboard" class="code-copy-button"><i class="bi"></i></button></pre></div>
+<div class="sourceCode cell-code" id="cb3"><pre class="sourceCode r code-with-copy"><code class="sourceCode r"><span id="cb3-1"><a href="#cb3-1" aria-hidden="true" tabindex="-1"></a><span class="fu">ggplot</span>() <span class="sc">+</span> </span>
+<span id="cb3-2"><a href="#cb3-2" aria-hidden="true" tabindex="-1"></a>  <span class="fu">geom_point</span>(<span class="at">data=</span>residualmodel, <span class="fu">aes</span>(<span class="at">x=</span>averagedifferential, <span class="at">y=</span>WinPct)) <span class="sc">+</span></span>
+<span id="cb3-3"><a href="#cb3-3" aria-hidden="true" tabindex="-1"></a>  <span class="fu">geom_smooth</span>(<span class="at">data=</span>residualmodel, <span class="fu">aes</span>(<span class="at">x=</span>averagedifferential, <span class="at">y=</span>WinPct), <span class="at">method=</span><span class="st">"lm"</span>) <span class="sc">+</span></span>
+<span id="cb3-4"><a href="#cb3-4" aria-hidden="true" tabindex="-1"></a>  <span class="fu">geom_point</span>(<span class="at">data=</span>danceresidual, <span class="fu">aes</span>(<span class="at">x=</span>averagedifferential, <span class="at">y=</span>WinPct), <span class="at">color=</span><span class="st">"grey"</span>) <span class="sc">+</span></span>
+<span id="cb3-5"><a href="#cb3-5" aria-hidden="true" tabindex="-1"></a>  <span class="fu">geom_point</span>(<span class="at">data=</span>bigdanceresidual, <span class="fu">aes</span>(<span class="at">x=</span>averagedifferential, <span class="at">y=</span>WinPct), <span class="at">color=</span><span class="st">"#0088ce"</span>) <span class="sc">+</span></span>
+<span id="cb3-6"><a href="#cb3-6" aria-hidden="true" tabindex="-1"></a>  <span class="fu">geom_point</span>(<span class="at">data=</span>sweetdanceresidual, <span class="fu">aes</span>(<span class="at">x=</span>averagedifferential, <span class="at">y=</span>WinPct), <span class="at">color=</span><span class="st">"red"</span>) <span class="sc">+</span></span>
+<span id="cb3-7"><a href="#cb3-7" aria-hidden="true" tabindex="-1"></a>  <span class="fu">geom_point</span>(<span class="at">data=</span>miresidual, <span class="fu">aes</span>(<span class="at">x=</span>averagedifferential, <span class="at">y=</span>WinPct), <span class="at">color=</span><span class="st">"#18453B"</span>) <span class="sc">+</span></span>
+<span id="cb3-8"><a href="#cb3-8" aria-hidden="true" tabindex="-1"></a>  </span>
+<span id="cb3-9"><a href="#cb3-9" aria-hidden="true" tabindex="-1"></a>  <span class="fu">labs</span>(</span>
+<span id="cb3-10"><a href="#cb3-10" aria-hidden="true" tabindex="-1"></a>    <span class="at">title=</span><span class="st">"Point Differential and Win Percentage of Tournament Teams"</span>,</span>
+<span id="cb3-11"><a href="#cb3-11" aria-hidden="true" tabindex="-1"></a>    <span class="at">subtitle=</span><span class="st">"Big Ten teams like to keep it close, but Sweet 16 teams can run away with the game"</span>,</span>
+<span id="cb3-12"><a href="#cb3-12" aria-hidden="true" tabindex="-1"></a>    <span class="at">x=</span><span class="st">"Average Point Differential"</span>, </span>
+<span id="cb3-13"><a href="#cb3-13" aria-hidden="true" tabindex="-1"></a>    <span class="at">y=</span><span class="st">"Win Percentage"</span>,</span>
+<span id="cb3-14"><a href="#cb3-14" aria-hidden="true" tabindex="-1"></a>    <span class="at">caption=</span><span class="st">"Source: College Basketball Reference | By Greg Johnson"</span>) <span class="sc">+</span></span>
+<span id="cb3-15"><a href="#cb3-15" aria-hidden="true" tabindex="-1"></a>  <span class="fu">geom_text</span>(<span class="fu">aes</span>(<span class="at">x=</span><span class="dv">5</span>, <span class="at">y=</span>.<span class="dv">925</span>, <span class="at">label=</span><span class="st">"Sweet 16 Teams"</span>), <span class="at">color=</span><span class="st">"red"</span>) <span class="sc">+</span></span>
+<span id="cb3-16"><a href="#cb3-16" aria-hidden="true" tabindex="-1"></a>  <span class="fu">geom_text</span>(<span class="fu">aes</span>(<span class="at">x=</span><span class="dv">5</span>, <span class="at">y=</span>.<span class="dv">875</span>, <span class="at">label=</span><span class="st">"Big Ten Teams"</span>), <span class="at">color=</span><span class="st">"#0088ce"</span>) <span class="sc">+</span></span>
+<span id="cb3-17"><a href="#cb3-17" aria-hidden="true" tabindex="-1"></a>  <span class="fu">geom_text</span>(<span class="fu">aes</span>(<span class="at">x=</span><span class="fl">2.5</span>, <span class="at">y=</span>.<span class="dv">675</span>, <span class="at">label=</span><span class="st">"Michigan State</span><span class="sc">\n</span><span class="st">(Big Ten and</span><span class="sc">\n</span><span class="st">Sweet 16 Team)"</span>), <span class="at">size=</span><span class="dv">3</span>, <span class="at">color=</span><span class="st">"#18453B"</span>) <span class="sc">+</span></span>
+<span id="cb3-18"><a href="#cb3-18" aria-hidden="true" tabindex="-1"></a>  <span class="fu">geom_text</span>(<span class="fu">aes</span>(<span class="at">x=</span><span class="fl">15.25</span>, <span class="at">y=</span>.<span class="dv">775</span>, <span class="at">label=</span><span class="st">"National Champion</span><span class="sc">\n</span><span class="st">Connecticut"</span>), <span class="at">size=</span><span class="dv">3</span>, <span class="at">color=</span><span class="st">"red"</span>) <span class="sc">+</span></span>
+<span id="cb3-19"><a href="#cb3-19" aria-hidden="true" tabindex="-1"></a>  <span class="fu">geom_text</span>(<span class="fu">aes</span>(<span class="at">x=</span><span class="fl">12.3</span>, <span class="at">y=</span>.<span class="dv">91</span>, <span class="at">label=</span><span class="st">"Nation Semifinalist</span><span class="sc">\n</span><span class="st">Florida Atlantic"</span>), <span class="at">size=</span><span class="dv">3</span>, <span class="at">color=</span><span class="st">"red"</span>) <span class="sc">+</span></span>
+<span id="cb3-20"><a href="#cb3-20" aria-hidden="true" tabindex="-1"></a>  </span>
+<span id="cb3-21"><a href="#cb3-21" aria-hidden="true" tabindex="-1"></a>  <span class="fu">theme_minimal</span>() <span class="sc">+</span></span>
+<span id="cb3-22"><a href="#cb3-22" aria-hidden="true" tabindex="-1"></a>  <span class="fu">theme</span>(</span>
+<span id="cb3-23"><a href="#cb3-23" aria-hidden="true" tabindex="-1"></a>    <span class="at">plot.title =</span> <span class="fu">element_text</span>(<span class="at">size =</span> <span class="dv">15</span>, <span class="at">face =</span> <span class="st">"bold"</span>),</span>
+<span id="cb3-24"><a href="#cb3-24" aria-hidden="true" tabindex="-1"></a>    <span class="at">plot.title.position=</span><span class="st">"plot"</span></span>
+<span id="cb3-25"><a href="#cb3-25" aria-hidden="true" tabindex="-1"></a>    )</span></code><button title="Copy to Clipboard" class="code-copy-button"><i class="bi"></i></button></pre></div>
 </details>
 <div class="cell-output-display">
-<p><img src="index_files/figure-html/unnamed-chunk-4-1.png" class="img-fluid" width="672"></p>
+<p><img src="index_files/figure-html/unnamed-chunk-3-1.png" class="img-fluid" width="672"></p>
 </div>
 </div>
 

diff --git a/index.html b/index.html
@@ -171,14 +171,14 @@ ul.task-list li input[type="checkbox"] {
 
 <div class="quarto-listing quarto-listing-container-default" id="listing-listing">
 <div class="list quarto-listing-default">
-<div class="quarto-post image-right" data-index="0" data-categories="ppg,sos,sweetsixteen" data-listing-date-sort="1681621200000" data-listing-file-modified-sort="1681679414351" data-listing-reading-time-sort="3.885">
+<div class="quarto-post image-right" data-index="0" data-categories="ppg,sos,sweetsixteen" data-listing-date-sort="1681621200000" data-listing-file-modified-sort="1681680558228" data-listing-reading-time-sort="3.865">
 <div class="thumbnail">
 <p><a href="./posts/the-big-ten-sucks-at-march-madness/index.html"> <img src="./posts/the-big-ten-sucks-at-march-madness/coverimage.png" class="thumnail-image"> </a></p>
 </div>
 <div class="body">
 <a href="./posts/the-big-ten-sucks-at-march-madness/index.html">
 <h3 class="no-anchor listing-title">
-THE BIG TEN SUCKS AT MARCH MADNESS
+The Big Ten’s Short Lived 2023 March Madness
 </h3>
 <div class="listing-subtitle">
 
@@ -207,7 +207,7 @@ Text Example One
 Apr 16, 2023
 </div>
 <div class="listing-author">
-GREG JOHNSON
+Greg Johnson
 </div>
 </a>
 </div>
